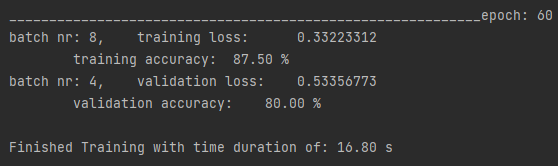
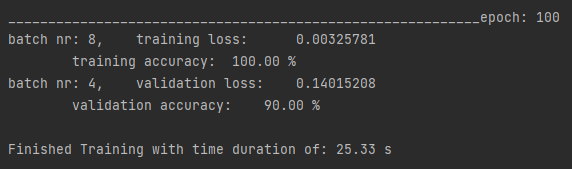
better example results

diff --git a/IC_Input.py b/IC_Input.py
@@ -16,7 +16,7 @@ testTrans = True
 
 # Neural network learn settings
 batch_size = 5
-epochs = 60
+epochs = 100
 lr = 0.0008
 momentum = 0.9
 

diff --git a/README.md b/README.md
@@ -43,7 +43,7 @@ each epoch the performance is measured
 
 <img src="GitHubReadmeFiles/TrainingAndFinalTest.gif" width="896" height="504"/>
 
-The validation performance at the end of training is 80%
+The validation performance at the end of training is 90%
 
 ![thumbnail03](GitHubReadmeFiles/EndOfTrainingResult.png)
 
@@ -54,6 +54,6 @@ the graph shows that the neural network started overfitting at around epoch 45. 
 
 _The final test:_
 
-the final test performance is 70%
+the final test performance is 95%
 
 ![thumbnail05](GitHubReadmeFiles/FinalTestResult.png)
